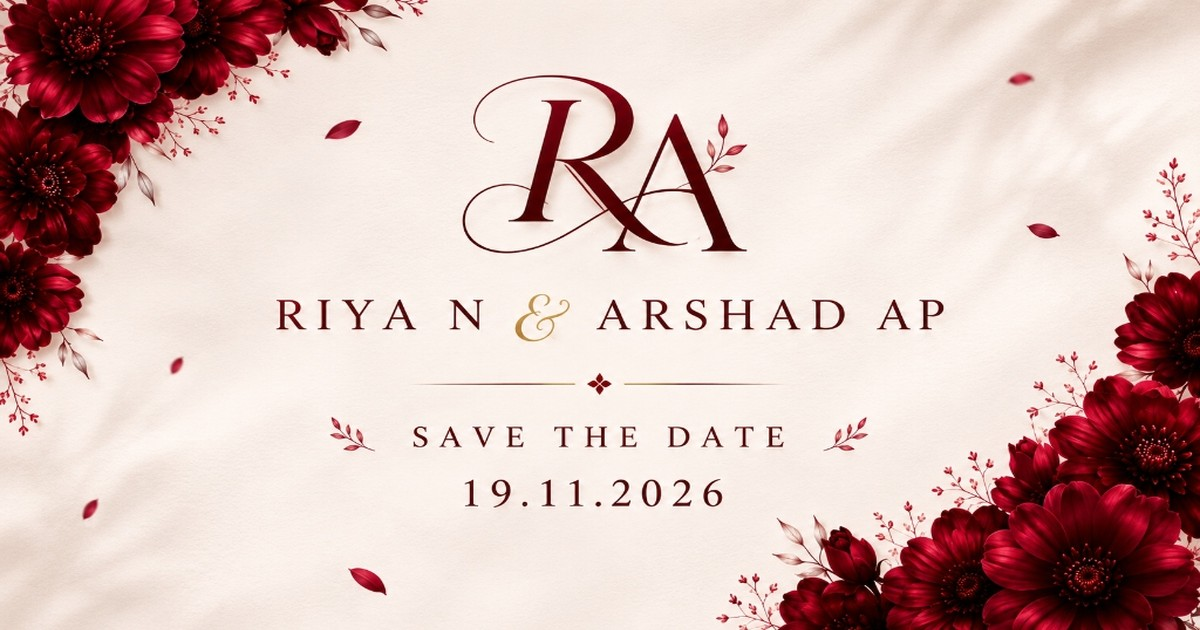
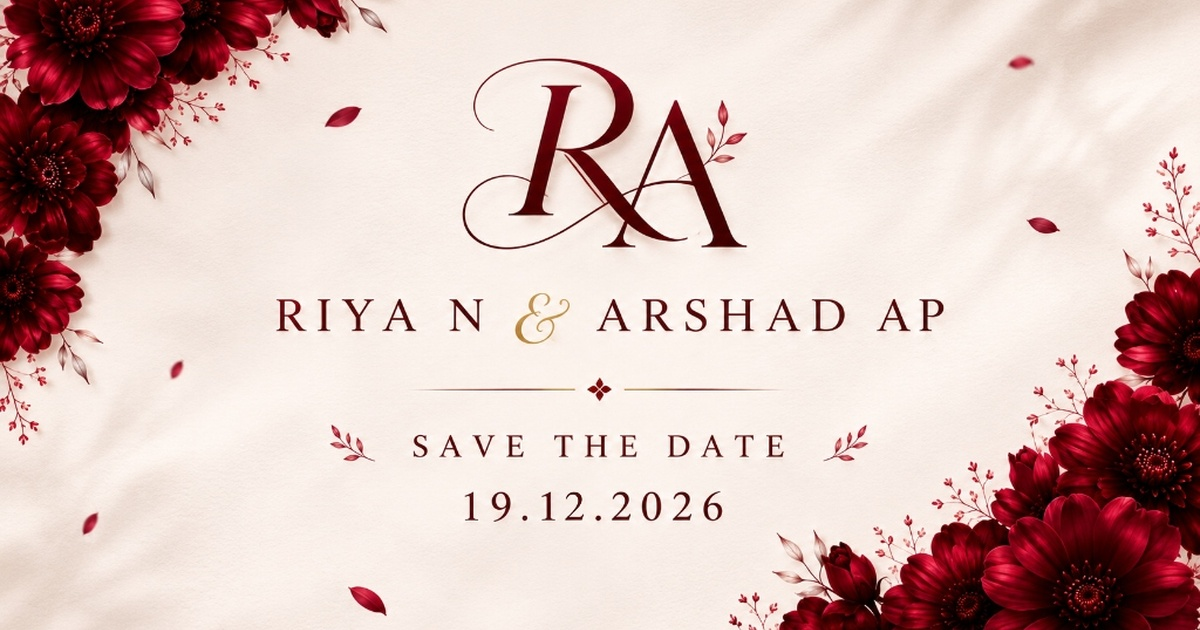
Update event details: change 19 November to 19 December 2026 and replace wedding with Nikah Ceremony

diff --git a/index.html b/index.html
@@ -3,29 +3,29 @@
 <head>
   <meta charset="UTF-8">
   <meta name="viewport" content="width=device-width, initial-scale=1.0, maximum-scale=5.0">
-  <title>Save the Date | Wedding Invitation — Riya N &amp; Arshad AP</title>
+  <title>Save the Date | Nikah Ceremony — Riya N &amp; Arshad AP</title>
   
   <!-- SEO & Social Media Metadata -->
-  <meta name="title" content="Save the Date | Wedding Invitation — Riya N &amp; Arshad AP">
-  <meta name="description" content="With hearts full of joy and gratitude, we cordially invite you to join us with your family as we celebrate the Nikah of Riya N &amp; Arshad AP on Saturday, 19 November 2026 at City Auditorium.">
+  <meta name="title" content="Save the Date | Nikah Ceremony — Riya N &amp; Arshad AP">
+  <meta name="description" content="With hearts full of joy and gratitude, we cordially invite you to join us with your family as we celebrate the Nikah Ceremony of Riya N &amp; Arshad AP on Saturday, 19 December 2026 at City Auditorium.">
   <meta name="theme-color" content="#FAF7F2">
 
   <!-- Open Graph / WhatsApp / Facebook -->
   <meta property="og:type" content="website">
-  <meta property="og:site_name" content="Riya &amp; Arshad Wedding">
-  <meta property="og:title" content="Save the Date | Riya N &amp; Arshad AP">
-  <meta property="og:description" content="We cordially invite you to celebrate the Nikah of Riya N &amp; Arshad AP • Saturday, 19 November 2026 at City Auditorium.">
+  <meta property="og:site_name" content="Riya &amp; Arshad Nikah Ceremony">
+  <meta property="og:title" content="Save the Date | Nikah Ceremony — Riya N &amp; Arshad AP">
+  <meta property="og:description" content="We cordially invite you to celebrate the Nikah Ceremony of Riya N &amp; Arshad AP • Saturday, 19 December 2026 at City Auditorium.">
   <meta property="og:image" content="images/og_preview.jpg">
   <meta property="og:image:secure_url" content="images/og_preview.jpg">
   <meta property="og:image:type" content="image/jpeg">
   <meta property="og:image:width" content="1024">
   <meta property="og:image:height" content="576">
-  <meta property="og:image:alt" content="Save the Date | Wedding Invitation — Riya N &amp; Arshad AP">
+  <meta property="og:image:alt" content="Save the Date | Nikah Ceremony — Riya N &amp; Arshad AP">
 
   <!-- Twitter / X -->
   <meta name="twitter:card" content="summary_large_image">
-  <meta name="twitter:title" content="Save the Date | Riya N &amp; Arshad AP">
-  <meta name="twitter:description" content="We cordially invite you to celebrate the Nikah of Riya N &amp; Arshad AP • Saturday, 19 November 2026 at City Auditorium.">
+  <meta name="twitter:title" content="Save the Date | Nikah Ceremony — Riya N &amp; Arshad AP">
+  <meta name="twitter:description" content="We cordially invite you to celebrate the Nikah Ceremony of Riya N &amp; Arshad AP • Saturday, 19 December 2026 at City Auditorium.">
   <meta name="twitter:image" content="images/og_preview.jpg">
 
   <!-- WhatsApp & Messaging Platform Thumbnail Link -->
@@ -50,7 +50,7 @@
        - "بسم الله الرحمن الرحيم"
        Smoothly DISSOLVES on click or scroll to reveal the invitation.
        ========================================================================= -->
-  <div id="opening-cover" class="opening-cover" role="button" tabindex="0" aria-label="Tap or scroll anywhere to open wedding invitation">
+  <div id="opening-cover" class="opening-cover" role="button" tabindex="0" aria-label="Tap or scroll anywhere to open Nikah invitation">
     <div class="opening-card">
       
       <!-- Subtle Moving Sunlight Shadow & Soft Light Play -->
@@ -78,8 +78,8 @@
           <span class="opening-divider-line"></span>
         </div>
 
-        <!-- Date: 19.11.2026 -->
-        <p class="opening-date">19.11.2026</p>
+        <!-- Date: 19.12.2026 -->
+        <p class="opening-date">19.12.2026</p>
 
         <!-- Sacred Marriage Dua: First half static, second half typewriter -->
         <div class="opening-dua-wrapper">
@@ -131,7 +131,7 @@
   </div>
 
   <!-- =========================================================================
-       MAIN CONTINUOUS WEDDING INVITATION EXPERIENCE
+       MAIN CONTINUOUS NIKAH CEREMONY INVITATION EXPERIENCE
        Revealed smoothly once opening cover dissolves.
        ========================================================================= -->
   <main class="invitation-container" id="invitation-container">
@@ -185,7 +185,7 @@
 
           <!-- Heartfelt Invitation Message -->
           <p class="invitation-text">
-            With hearts full of joy and gratitude, we cordially invite you to join us with your family as we celebrate the Nikah of our beloved ones. Your presence and prayers will make this special occasion truly memorable.
+            With hearts full of joy and gratitude, we cordially invite you to join us with your family as we celebrate the Nikah Ceremony of our beloved ones. Your presence and prayers will make this special occasion truly memorable.
           </p>
 
           <!-- Scroll Guide Indicator to Couple Section -->
@@ -235,13 +235,13 @@
             </div>
           </div>
 
-          <!-- Wedding Date -->
+          <!-- Nikah Date -->
           <div class="couple-date-badge">
-            <p class="couple-date-text">SATURDAY, 19 NOVEMBER 2026</p>
+            <p class="couple-date-text">SATURDAY, 19 DECEMBER 2026</p>
           </div>
 
           <!-- Scroll Guide Indicator to Event Details -->
-          <div class="scroll-indicator" id="scroll-indicator-couple" role="button" tabindex="0" aria-label="Scroll down to wedding details">
+          <div class="scroll-indicator" id="scroll-indicator-couple" role="button" tabindex="0" aria-label="Scroll down to Nikah ceremony details">
             <span class="scroll-text">SCROLL FOR DETAILS</span>
             <svg class="chevron-icon" viewBox="0 0 24 24" fill="none" stroke="currentColor" stroke-width="1.8" stroke-linecap="round" stroke-linejoin="round">
               <polyline points="6 9 12 15 18 9"></polyline>
@@ -252,9 +252,9 @@
       </section>
 
       <!-- ===================================================================
-           WEDDING DETAILS & VENUE SECTION
+           NIKAH CEREMONY DETAILS & VENUE SECTION
            =================================================================== -->
-      <section class="invitation-section section-details" id="details-section" aria-label="Wedding Details and Venue">
+      <section class="invitation-section section-details" id="details-section" aria-label="Nikah Ceremony Details and Venue">
         <div class="section-content details-content fade-in-up is-visible">
           
           <!-- Decorative Top Ornament -->
@@ -265,11 +265,11 @@
           </div>
 
           <!-- Event Title -->
-          <h2 class="event-title">NIKKAH</h2>
+          <h2 class="event-title">NIKAH CEREMONY</h2>
 
           <!-- Date & Time -->
           <div class="event-schedule">
-            <p class="event-date">Saturday, 19 November 2026</p>
+            <p class="event-date">Saturday, 19 December 2026</p>
             <p class="event-time">11:00 AM</p>
           </div>
 
@@ -311,7 +311,7 @@
 
           <!-- Add To Calendar Action -->
           <div class="calendar-action-wrapper">
-            <button id="add-to-calendar-btn" class="btn-calendar" aria-label="Add wedding date to calendar">
+            <button id="add-to-calendar-btn" class="btn-calendar" aria-label="Add Nikah ceremony date to calendar">
               <svg class="calendar-icon" viewBox="0 0 24 24" fill="none" stroke="currentColor" stroke-width="1.8" stroke-linecap="round" stroke-linejoin="round">
                 <rect x="3" y="4" width="18" height="18" rx="2" ry="2"></rect>
                 <line x1="16" y1="2" x2="16" y2="6"></line>
@@ -323,7 +323,7 @@
           </div>
 
           <!-- Family Warm Wishes Signature -->
-          <div class="wedding-footer-signature">
+          <div class="nikah-footer-signature">
             <p class="signature-text">With prayers &amp; warm regards from our families</p>
           </div>
 

diff --git a/script.js b/script.js
@@ -1,5 +1,5 @@
 /**
- * Wedding Invitation — Riya N & Arshad AP
+ * Nikah Ceremony — Riya N & Arshad AP
  * Smooth Dissolve Opening Screen, Falling Burgundy Petals & Leaves, Background Audio & Calendar Integration
  */
 
@@ -570,21 +570,21 @@ function initCalendarAction() {
 
   calendarBtn.addEventListener('click', () => {
     const title = "Nikah Ceremony: Riya N & Arshad AP";
-    const description = "With hearts full of joy and gratitude, we cordially invite you to celebrate the Nikah of Riya N & Arshad AP.\\n\\nDate: Saturday, 19 November 2026\\nTime: 11:00 AM\\nVenue: City Auditorium\\nLocation: https://maps.app.goo.gl/ddZ5TCMYNeJ3gXcR6";
+    const description = "With hearts full of joy and gratitude, we cordially invite you to celebrate the Nikah Ceremony of Riya N & Arshad AP.\\n\\nDate: Saturday, 19 December 2026\\nTime: 11:00 AM\\nVenue: City Auditorium\\nLocation: https://maps.app.goo.gl/ddZ5TCMYNeJ3gXcR6";
     const location = "City Auditorium";
     
-    // Date: 19 November 2026 at 11:00 AM IST (UTC+05:30) -> 05:30 UTC
-    const startDate = "20261119T053000Z";
-    const endDate = "20261119T083000Z";
+    // Date: 19 December 2026 at 11:00 AM IST (UTC+05:30) -> 05:30 UTC
+    const startDate = "20261219T053000Z";
+    const endDate = "20261219T083000Z";
 
     const icsContent = [
       "BEGIN:VCALENDAR",
       "VERSION:2.0",
-      "PRODID:-//Riya and Arshad Wedding//Invitation//EN",
+      "PRODID:-//Riya and Arshad Nikah Ceremony//Invitation//EN",
       "CALSCALE:GREGORIAN",
       "METHOD:PUBLISH",
       "BEGIN:VEVENT",
-      `UID:wedding-riya-arshad-20261119@weddinginvitation.com`,
+      `UID:nikah-riya-arshad-20261219@nikahceremony.com`,
       `DTSTAMP:${new Date().toISOString().replace(/[-:]/g, "").split(".")[0]}Z`,
       `DTSTART:${startDate}`,
       `DTEND:${endDate}`,
@@ -599,7 +599,7 @@ function initCalendarAction() {
     const blob = new Blob([icsContent], { type: "text/calendar;charset=utf-8" });
     const link = document.createElement("a");
     link.href = window.URL.createObjectURL(blob);
-    link.setAttribute("download", "Wedding-Invitation-Riya-and-Arshad.ics");
+    link.setAttribute("download", "Nikah-Ceremony-Riya-and-Arshad.ics");
     document.body.appendChild(link);
     link.click();
     document.body.removeChild(link);

diff --git a/style.css b/style.css
@@ -1,5 +1,5 @@
 /* ==========================================================================
-   WEDDING INVITATION — RIYA N & ARSHAD AP
+   NIKAH CEREMONY INVITATION — RIYA N & ARSHAD AP
    Design Style: Luxurious Editorial Stationery, Warm Ivory & Deep Burgundy
    ========================================================================== */
 
@@ -331,7 +331,7 @@ body.cover-locked #invitation-container {
   }
 }
 
-/* Date: 19.11.2026 */
+/* Date: 19.12.2026 */
 .opening-date {
   font-family: var(--font-sans-tracked);
   font-size: 0.84rem;
@@ -855,7 +855,7 @@ body.cover-locked #invitation-container {
 }
 
 /* ==========================================================================
-   SECTION 3: WEDDING DETAILS & VENUE
+   SECTION 3: NIKAH CEREMONY DETAILS & VENUE
    ========================================================================== */
 .section-details {
   background: url('images/floral_stationery_bg.jpg') center top / cover no-repeat;
@@ -1054,8 +1054,8 @@ body.cover-locked #invitation-container {
   height: 15px;
 }
 
-/* Wedding Footer Signature */
-.wedding-footer-signature {
+/* Nikah Ceremony Footer Signature */
+.nikah-footer-signature {
   margin-top: 8px;
   padding-top: 16px;
   border-top: 1px solid rgba(62, 14, 25, 0.08);

diff --git a/README.md b/README.md
@@ -1,11 +1,11 @@
 # riya-arshad-save-the-date
 
-Luxury wedding invitation and Save the Date website for **Riya N & Arshad AP**.
+Nikah Ceremony and Save the Date invitation for **Riya N & Arshad AP**.
 
 ## Event Details
 - **Bride**: Riya N
 - **Groom**: Arshad AP
-- **Date**: Saturday, 19 November 2026
+- **Date**: Saturday, 19 December 2026
 - **Nikah Time**: 11:00 AM
 - **Venue**: City Auditorium
 - **Location**: [Google Maps Link](https://maps.app.goo.gl/ddZ5TCMYNeJ3gXcR6)
